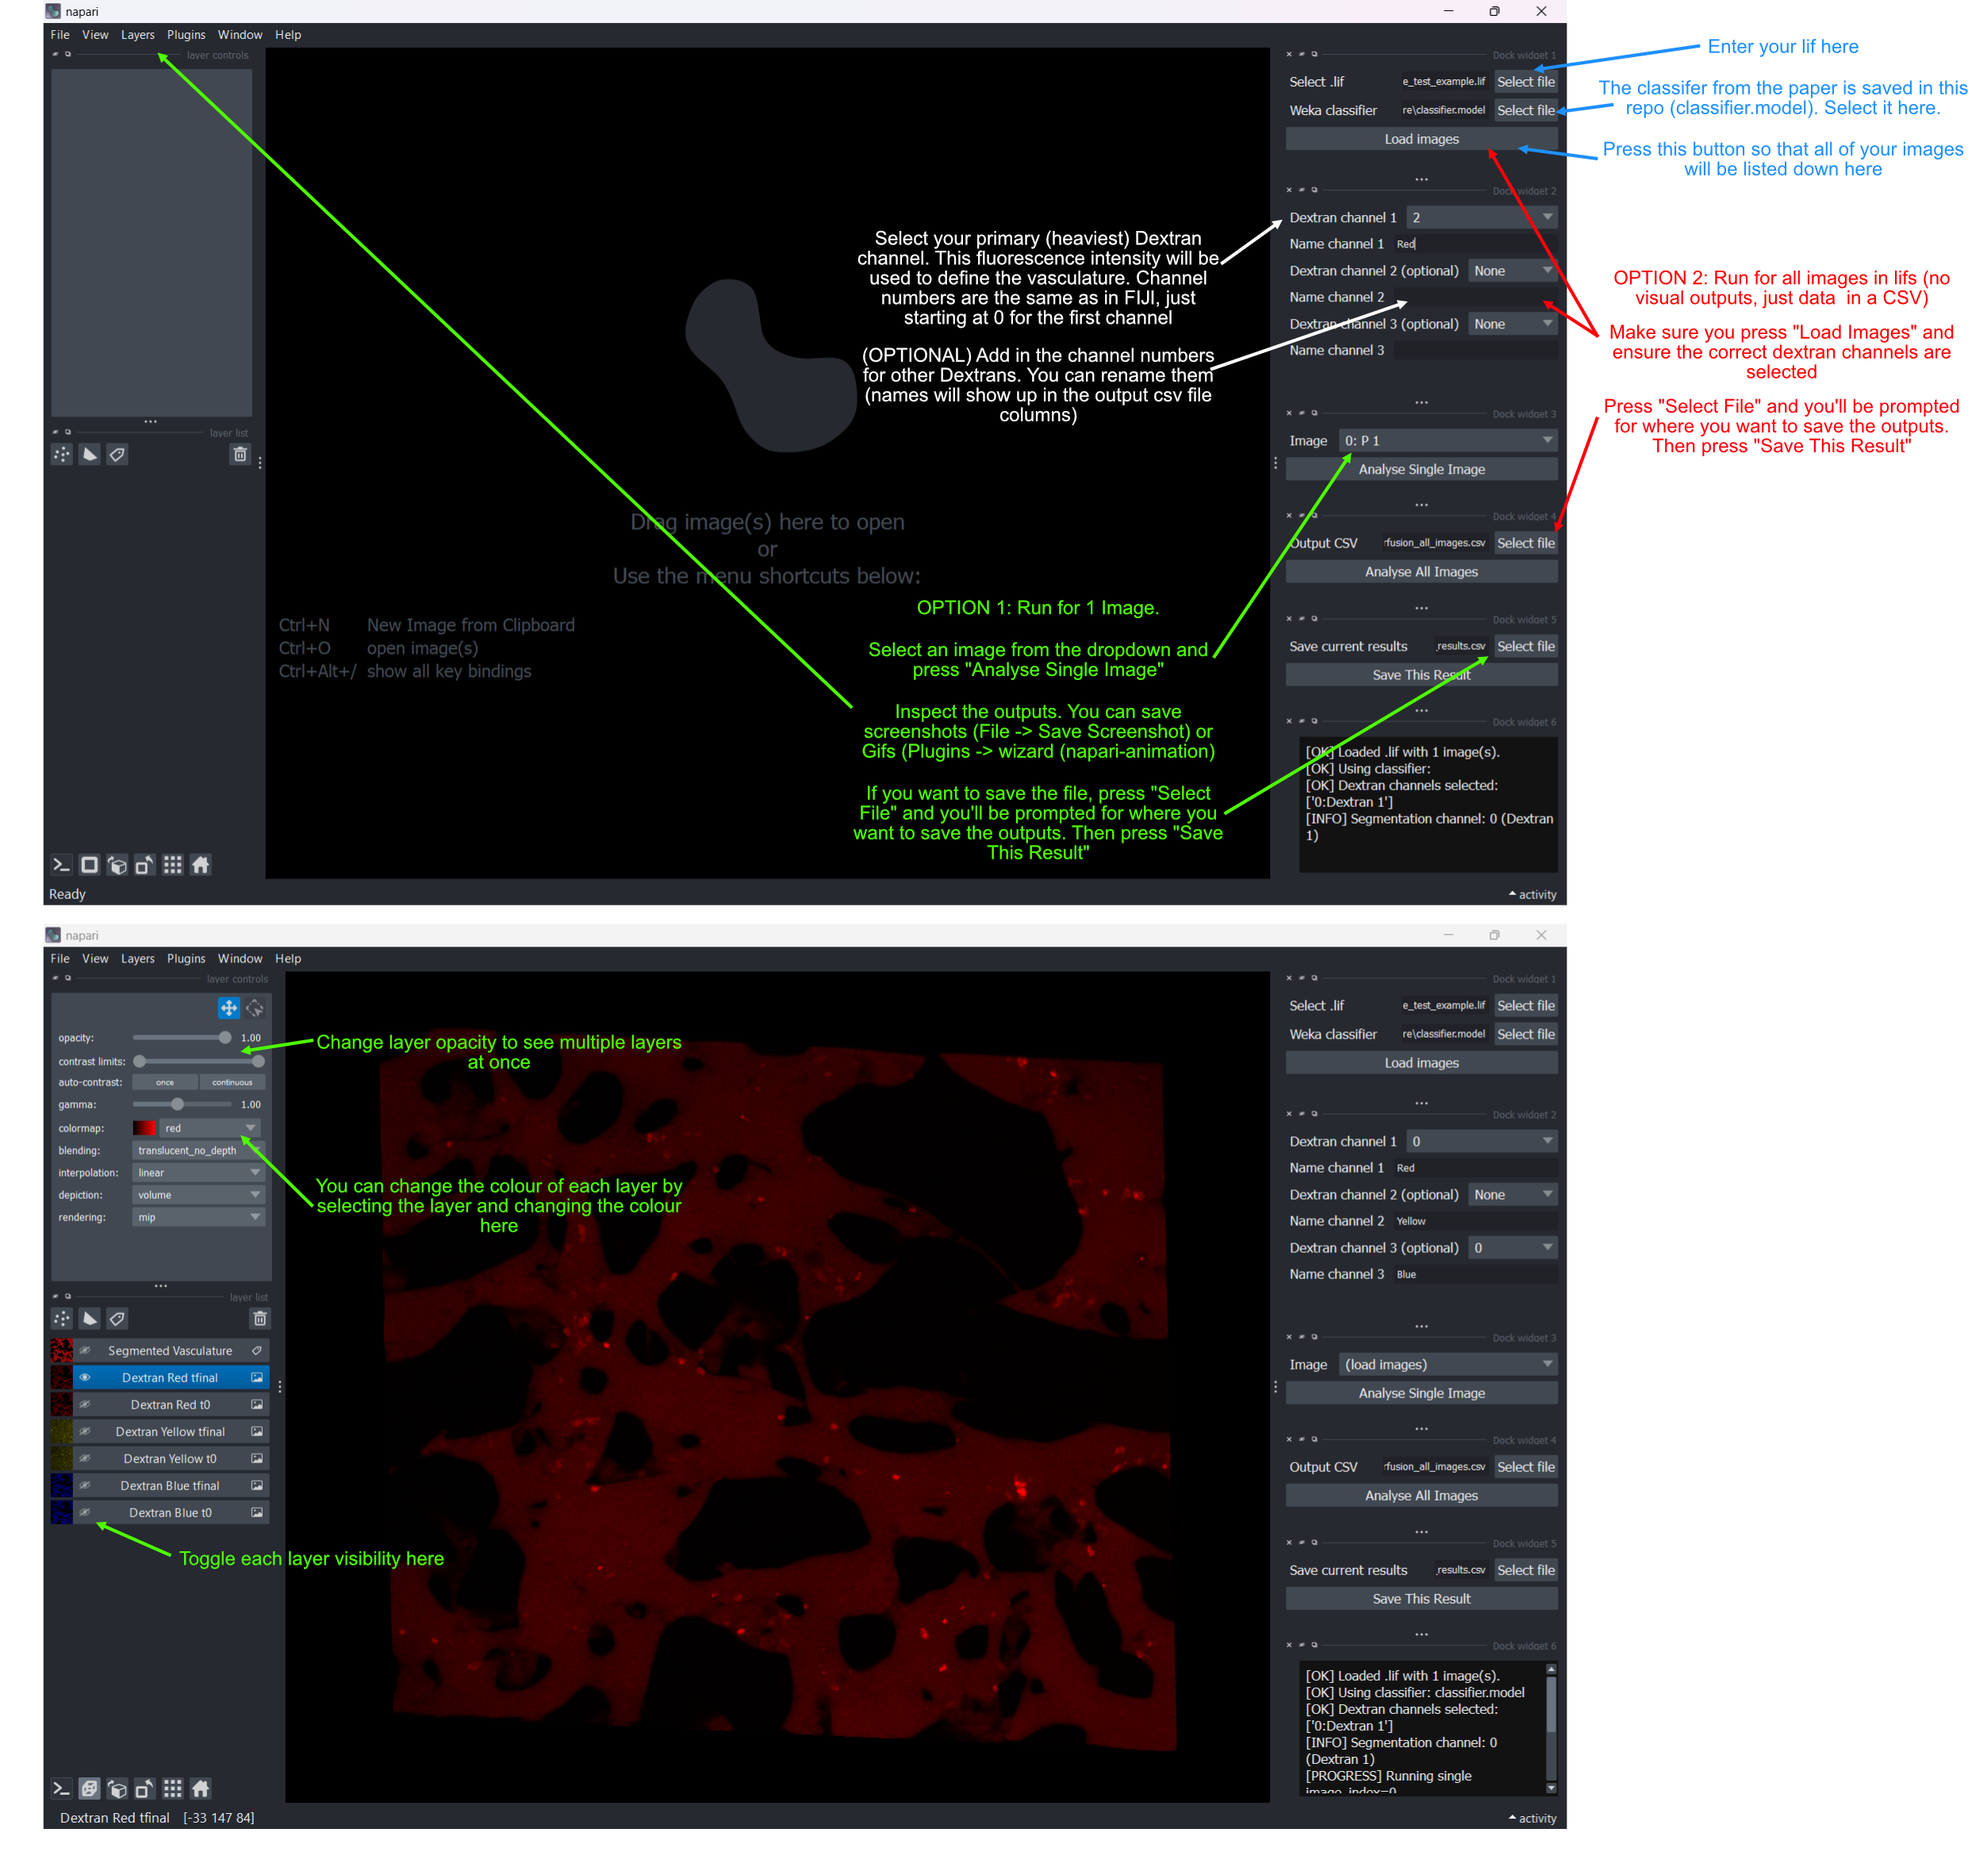
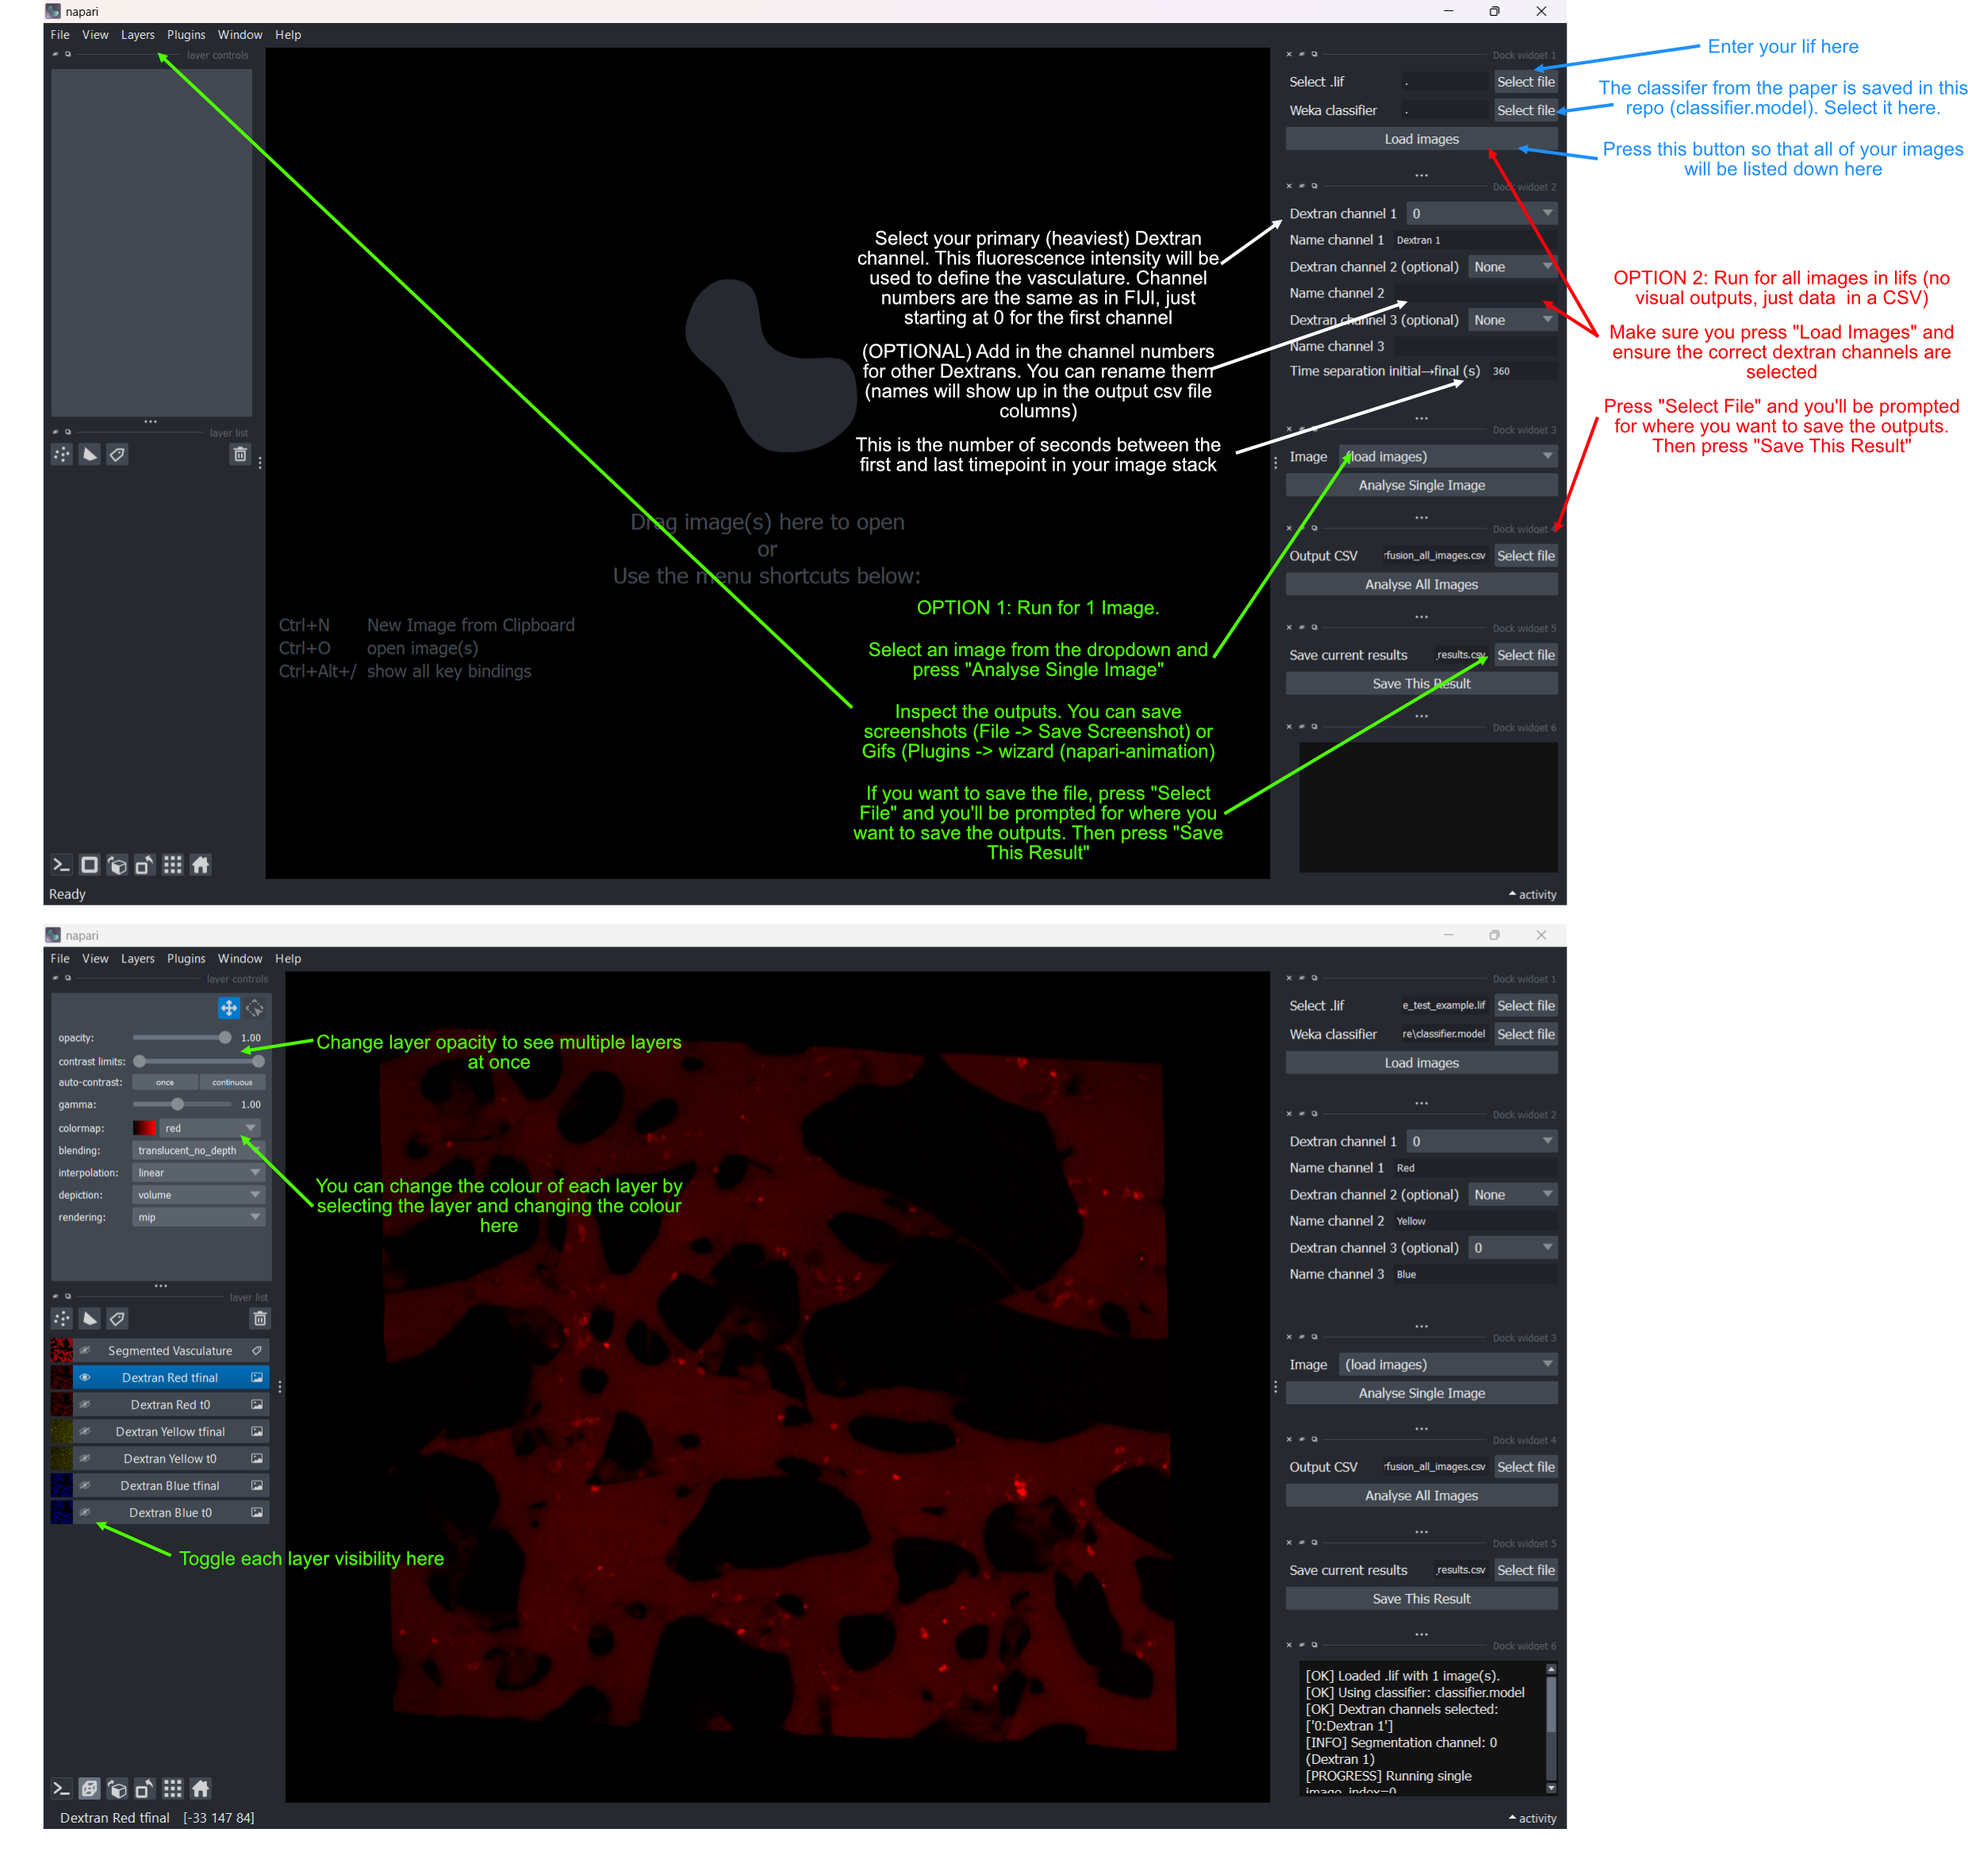
more flexiblility added in time separation

Changed region(s): [[0.6518, 0.0929, 0.8069, 0.4644], [0.4345, 0.1858, 0.6207, 0.2477], [0.7138, 0.031, 0.7449, 0.0619]]

diff --git a/Vasculature/README.md b/Vasculature/README.md
@@ -100,6 +100,4 @@ If an image/channel cannot be processed, a `flag` column is written with an expl
 
 ## Example images
 
-![Segmentation example](README_images/image1.png)
-
 ![Permeability example](README_images/image2.png)
